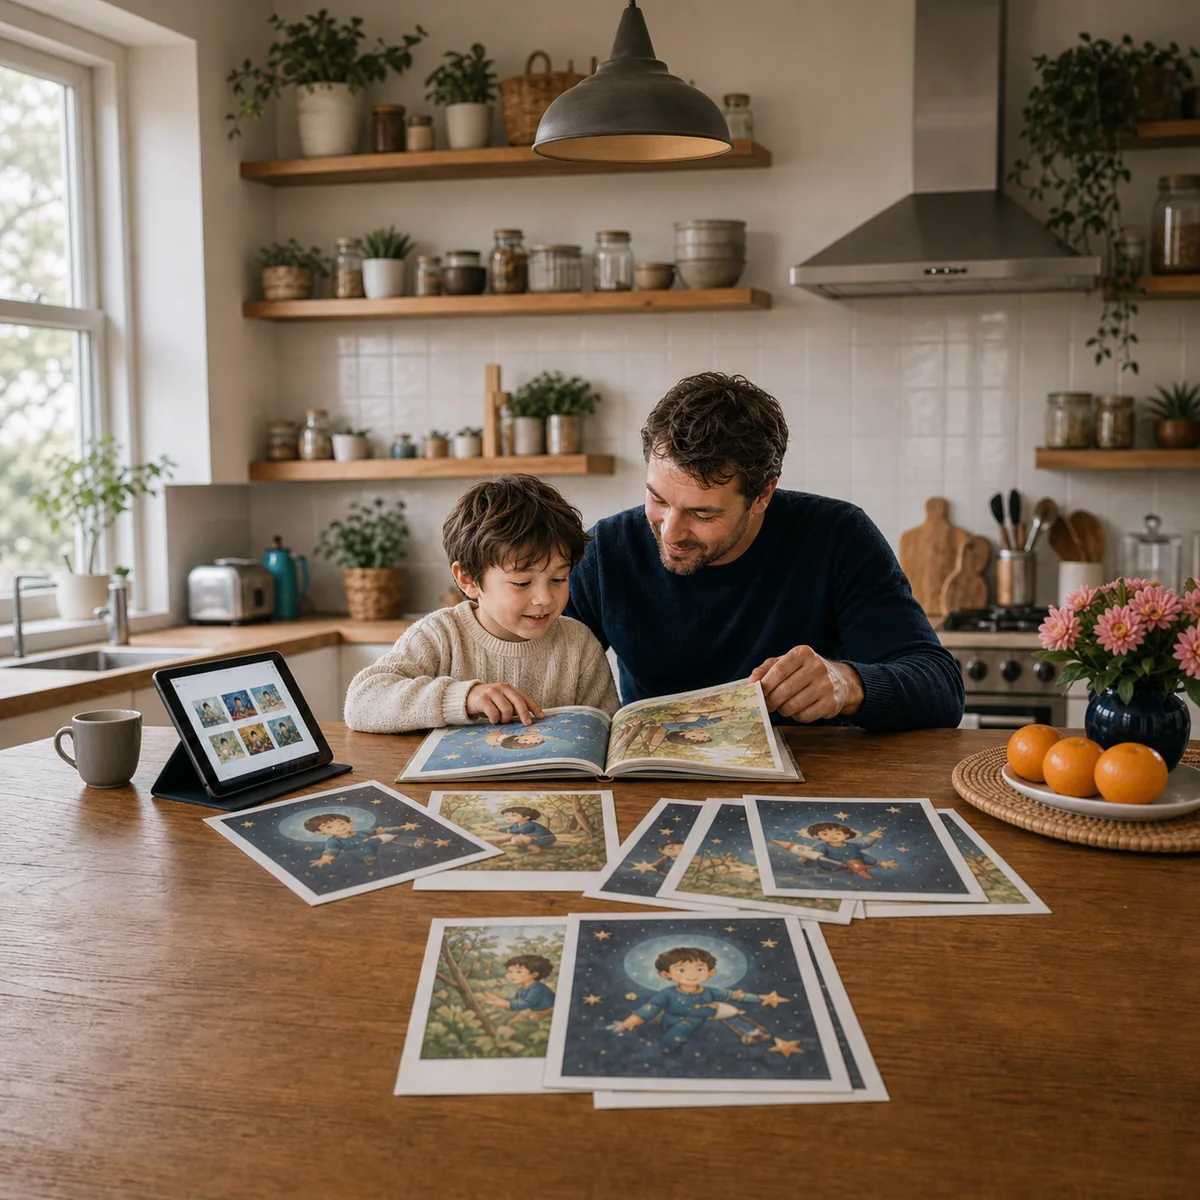
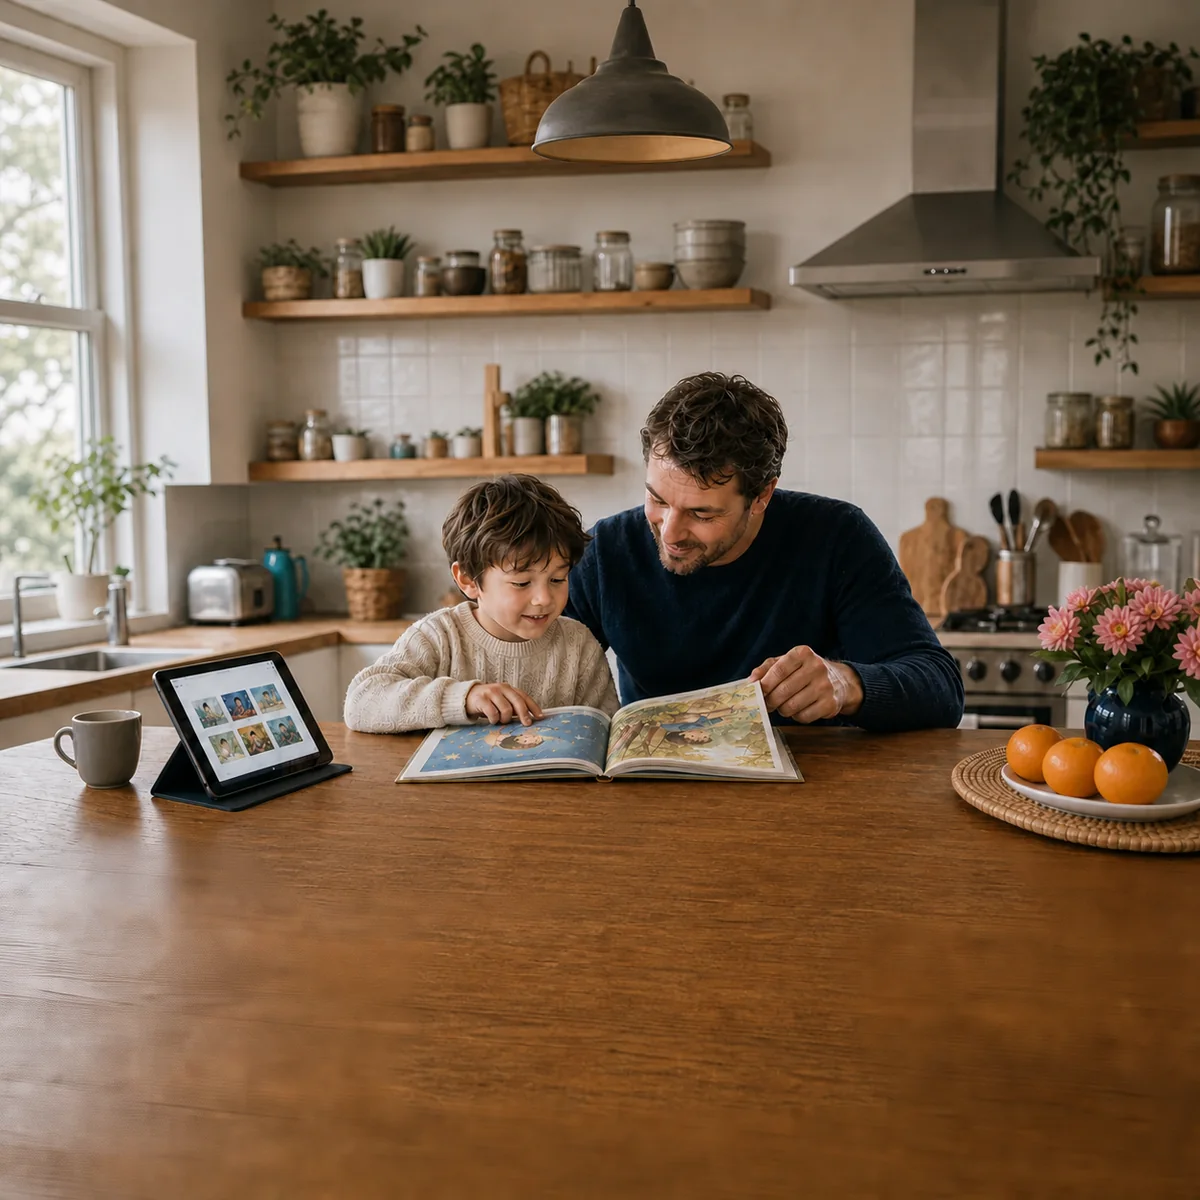
Simplify personalized book cover

diff --git a/src/data/projects.ts b/src/data/projects.ts
@@ -164,7 +164,7 @@ export const projects: Project[] = [
   {
     id: "personalized-book",
     title: "Personalized Book Platform",
-    coverAlt: "Editorial representation of a parent and child exploring a personalized picture book and print proofs",
+    coverAlt: "Editorial representation of a parent and child exploring a personalized picture book beside a tablet of digital previews",
     context: "Personalized commerce and print workflow",
     summary: "Multilingual children’s-book platform connecting storefront UX, guided personalization, payments, generated media, PDF production, and printing-house operations.",
     contribution: "Worked across the Next.js storefront, resumable personalization, checkout and order lifecycle, backend route handlers, media generation, print-ready assets, storage, and internal operations.",

diff --git a/design-qa.md b/design-qa.md
@@ -104,4 +104,14 @@ After the in-app Browser outage was established, Chrome was authorized as the fa
 - Mobile checks: `mobile-390x844.png` confirms the buttons wrap into a clear two-row layout without clipping or horizontal overflow. `mobile-about-target-390x844.png` confirms the CTA updates the URL to `#about` and leaves the About section approximately `80px` below the viewport top, clear of the fixed header.
 - Verification: `npm ci`, `npm run build`, and `git diff --check` passed. Browser diagnostics contained no warning or error entries for the implementation origin. No actionable P0, P1, or P2 findings remain.
 
+## 2026-08-25 Personalized Book clean-table correction
+
+- User-requested change: remove the many loose illustrated papers spread across the table in the Personalized Book Platform cover.
+- Image correction: the built-in ImageGen model removed only the loose picture sheets and reconstructed a clean wooden tabletop with matching grain, perspective, shadows, and warm lighting. The European father and child, reader-correct open book, tablet, cup, fruit, flowers, kitchen, camera angle, and square composition remain.
+- Final asset: `public/images/projects/personalized-book.webp`, optimized to `1200×1200` WebP at `125,208` bytes. Its alt text now describes the tablet's digital previews rather than the removed print proofs.
+- Evidence directory: `/Users/yo.livy/.codex/visualizations/2026/08/25/01a0385a-93ee-7143-bfd1-81514d0b7b13/eugene-portfolio-qa-evidence/personalized-book-clean-table/`.
+- Combined comparisons: `comparison-desktop.jpg` and `comparison-mobile.jpg` use matched source/implementation viewports and scroll positions. The mobile comparison makes the removed papers especially clear; both confirm the open book remains the focal point and the existing card dimensions, typography, border, rotation, CTA, and adjacent covers are unchanged.
+- Responsive and detail checks: desktop `1440×900`, mobile `390×844`, and `/projects/personalized-book/` load the complete `1200×1200` asset with no horizontal overflow. Browser diagnostics contain no warning or error entries for the implementation origin.
+- Verification: `npm ci`, `npm run build`, and `git diff --check` passed. No actionable P0, P1, or P2 findings remain.
+
 final result: passed
